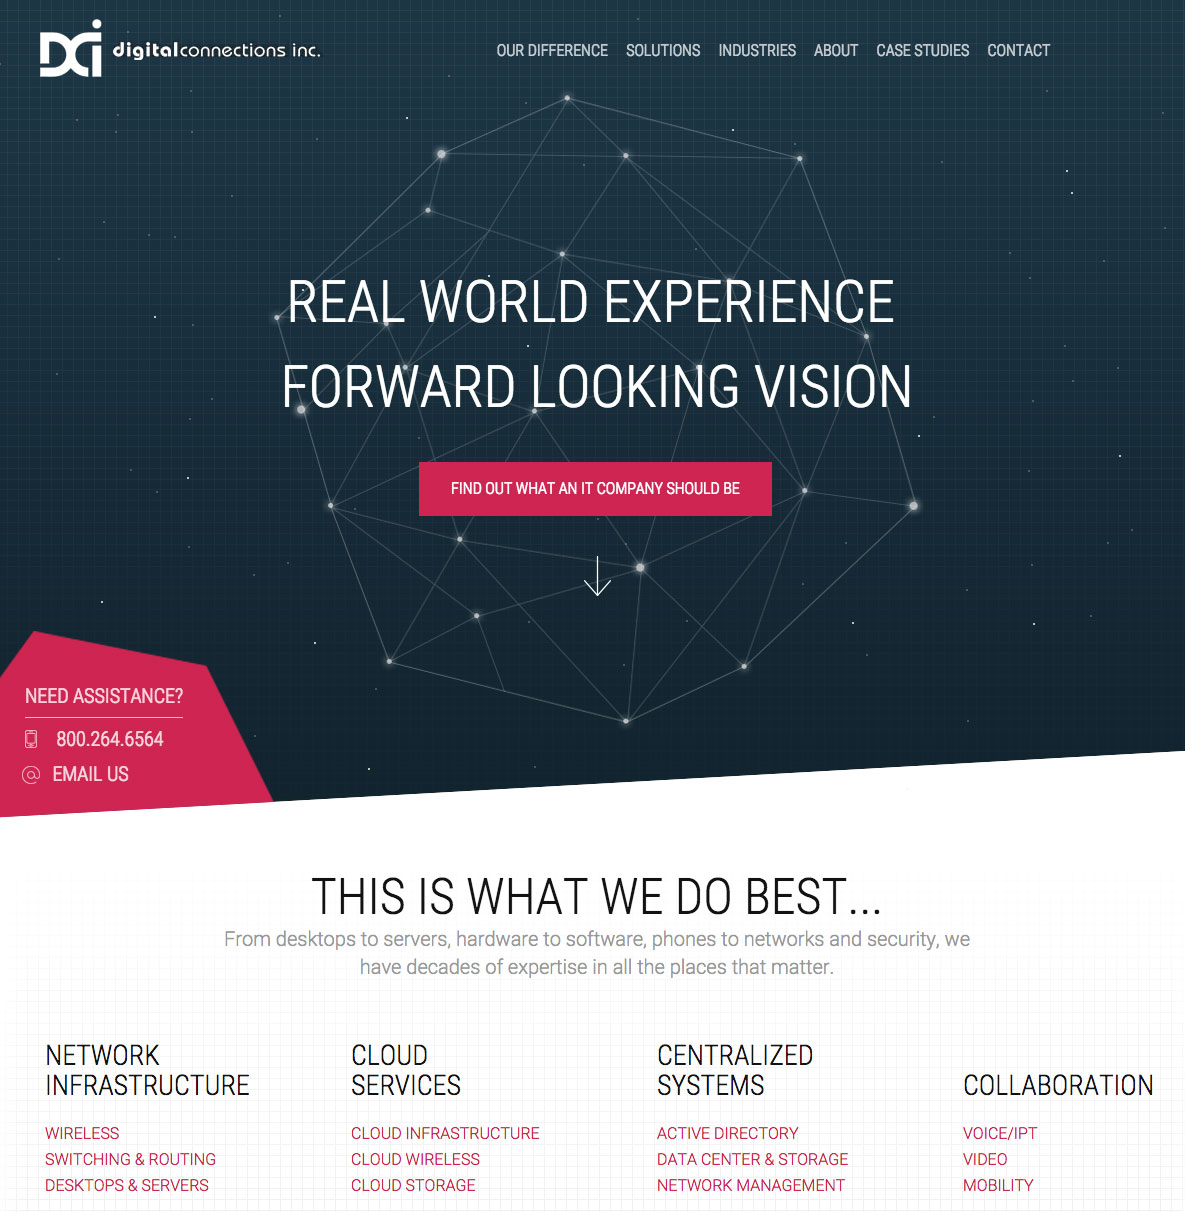
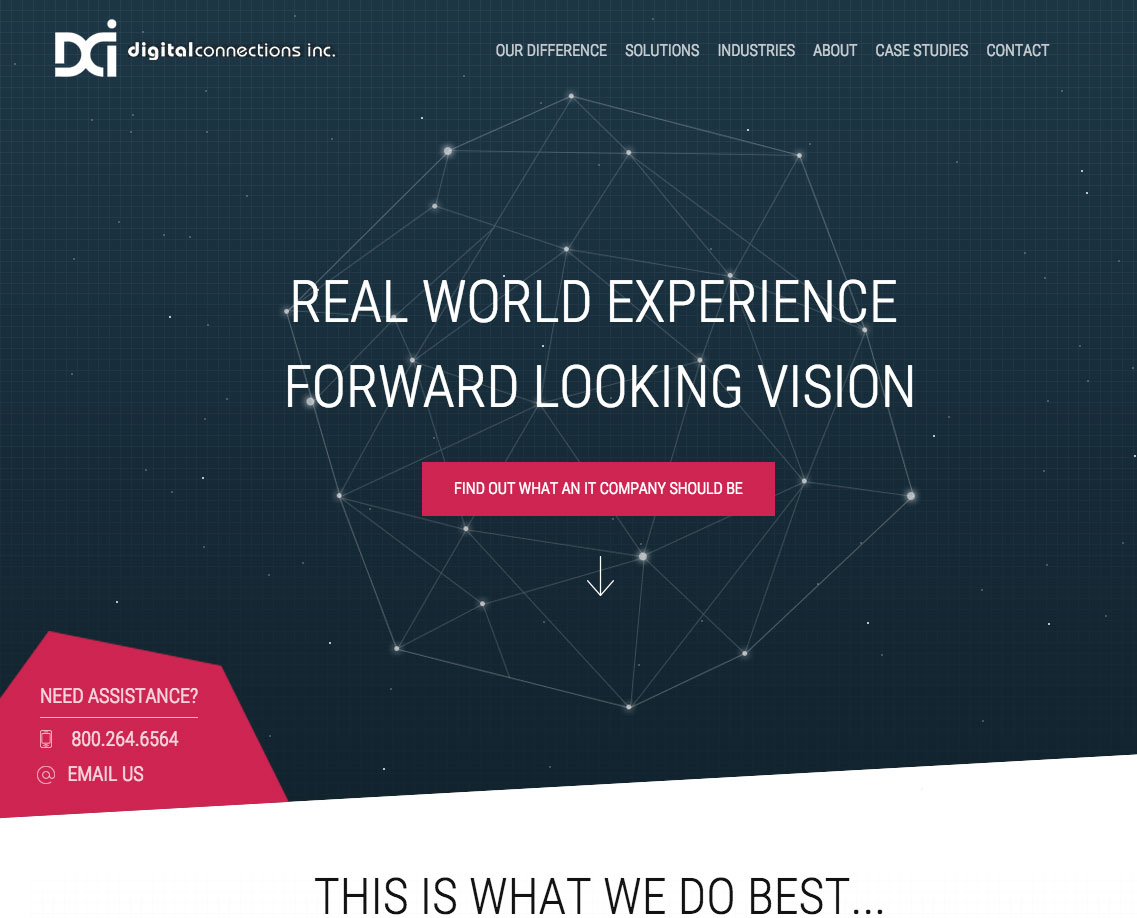
Added all base Works imgs. Changed the way the intro is laid out.

diff --git a/v2/index.html b/v2/index.html
@@ -119,48 +119,56 @@
 						</div>
 						<div class="col-xs-4 col-sm-4 col-md-4 col-lg-4" style="padding:2px;">
 							<div class="works-content">
-								<img style="width:100%; " src="imgs/alma-img2.jpg">
-								<span class="works-content-text">Atlantis Resort</span>
+								<img style="width:100%; " src="imgs/dci-img1a.jpg">
+								<span class="works-content-text">Digital Connections</span>
 							</div>
 						</div>
 						<div class="col-xs-4 col-sm-4 col-md-4 col-lg-4" style="padding:2px;">
 							<div class="works-content">
-								<img style="width:100%" src="imgs/atlantis-img1.jpg">
-								<span class="works-content-text">Atlantis Resort</span>
+								<img style="width:100%" src="imgs/reprint-img1a.jpg">
+								<span class="works-content-text">Reprint Nexus</span>
 							</div>
 						</div>
 					</div>
 					<div class="row">
-						<div class="col-xs-3 col-sm-3 col-md-3 col-lg-3" style="padding:2px;">
+						<div class="col-xs-4 col-sm-4 col-md-4 col-lg-4" style="padding:2px;">
 							<div class="works-content">
-								<img style="width:100%" src="imgs/atlantis-img1.jpg">
-								<span class="works-content-text">Atlantis Resort</span>
+								<img style="width:100%" src="imgs/bp-img1a.jpg">
+								<span class="works-content-text">Blue Project</span>
 							</div>
 						</div>
-						<div class="col-xs-3 col-sm-3 col-md-3 col-lg-3" style="padding:2px;">
+						<div class="col-xs-4 col-sm-4 col-md-4 col-lg-4" style="padding:2px;">
 							<div class="works-content">
-								<img style="width:100%" src="imgs/atlantis-img1.jpg">
-								<span class="works-content-text">Atlantis Resort</span>
+								<img style="width:100%" src="imgs/oo-img1a.jpg">
+								<span class="works-content-text">One & Only Resorts</span>
 							</div>
 						</div>
-						<div class="col-xs-3 col-sm-3 col-md-3 col-lg-3" style="padding:2px;">
+						<div class="col-xs-4 col-sm-4 col-md-4 col-lg-4" style="padding:2px;">
 							<div class="works-content">
-								<img style="width:100%" src="imgs/oodubai-img1.jpg">
-								<span class="works-content-text">Atlantis Resort</span>
-							</div>
-						</div>
-						<div class="col-xs-3 col-sm-3 col-md-3 col-lg-3" style="padding:2px;">
-							<div class="works-content">
-								<img style="width:100%" src="imgs/blueproject-img1.jpg">
-								<span class="works-content-text">Atlantis Resort</span>
+								<img style="width:100%" src="imgs/qa-img1a.jpg">
+								<span class="works-content-text">Quaker Oats - Spanish Site</span>
 							</div>
 						</div>
 					</div>
 					<div class="row">
 						<div class="col-xs-6 col-sm-6 col-md-6 col-lg-6" style="padding:2px;">
 							<div class="works-content">
-								<img style="width:100%;" src="imgs/atlantis-img1a.jpg">
-								<span class="works-content-text">Atlantis Resort</span>
+								<img style="width:100%;" src="imgs/ampcms-img1a.jpg">
+								<span class="works-content-text">Triton Digital - AMP CMS</span>
+							</div>
+						</div>
+						<div class="col-xs-6 col-sm-6 col-md-6 col-lg-6" style="padding:2px;">
+							<div class="works-content">
+								<img style="width:100%;" src="imgs/promo-img1a.jpg">
+								<span class="works-content-text">Promotions Management</span>
+							</div>
+						</div>
+					</div>
+					<div class="row">
+						<div class="col-xs-12 col-sm-12 col-md-12 col-lg-12" style="padding:2px;">
+							<div class="works-content" style="height:220px;">
+								<img style="width:100%;" src="imgs/atlantis-img2a.jpg">
+								<span class="works-content-text">Atlantis Bahamas Resort</span>
 							</div>
 						</div>
 					</div>

diff --git a/v2/js/app.js b/v2/js/app.js
@@ -28,7 +28,7 @@ $(function() {
 
 		var head = $('.fixed-header');
 
-		if($(this).scrollTop() > 90) {
+		if($(this).scrollTop() > 112) {
 			 head.addClass('fixed');
 		}else {
 			head.removeClass('fixed');
@@ -66,55 +66,6 @@ $(function() {
 		$('.nav-bg-mask').removeClass('is-open');
 
 	});
-
-	// ISOTOPE STUFF
-	// init Isotope
-	// var $container = $('.isotope').imagesLoaded(function(){
-
-	// 	$container.isotope({
-	//     	itemSelector: '.portfolio-item',
-	// 	});
-	// });
-
-	// // Production loading issue hack
-	// $('.is-checked').trigger('click');
-
-	// // bind filter button click
-	// $('#filters').on( 'click', 'button', function() {
-	// 	var filterValue = $( this ).attr('data-filter');
- //    		// use filterFn if matches value
-	// 		$container.isotope({ filter: filterValue });
-
- //  		});
-	//   	// change is-checked class on buttons
- //  		$('.button-group').each( function( i, buttonGroup ) {
- //    		var $buttonGroup = $( buttonGroup );
-
- //    		$buttonGroup.on( 'click', 'button', function() {
-	// 			$buttonGroup.find('.is-checked').removeClass('is-checked');
-
-	// 			$( this ).addClass('is-checked');
-	//     	});
-	// 	});
-
-	// // Overlay Hover
-	// $('.portfolio-item').on('mouseenter', function(event) {
-	// 	event.preventDefault();
-
-	// 	var overlay = $(this).find('.img-overlay');
-
-	// 	overlay.css('display', 'block');
-
-	// });
-
-	// $('.portfolio-item').on('mouseleave', function(event) {
-	// 	event.preventDefault();
-
-	// 	var overlay = $(this).find('.img-overlay');
-
-	// 	overlay.css('display', 'none');
-
-	// });
 
 	// Skills Hover
 	$('.skills-content').hover( function(event) {
